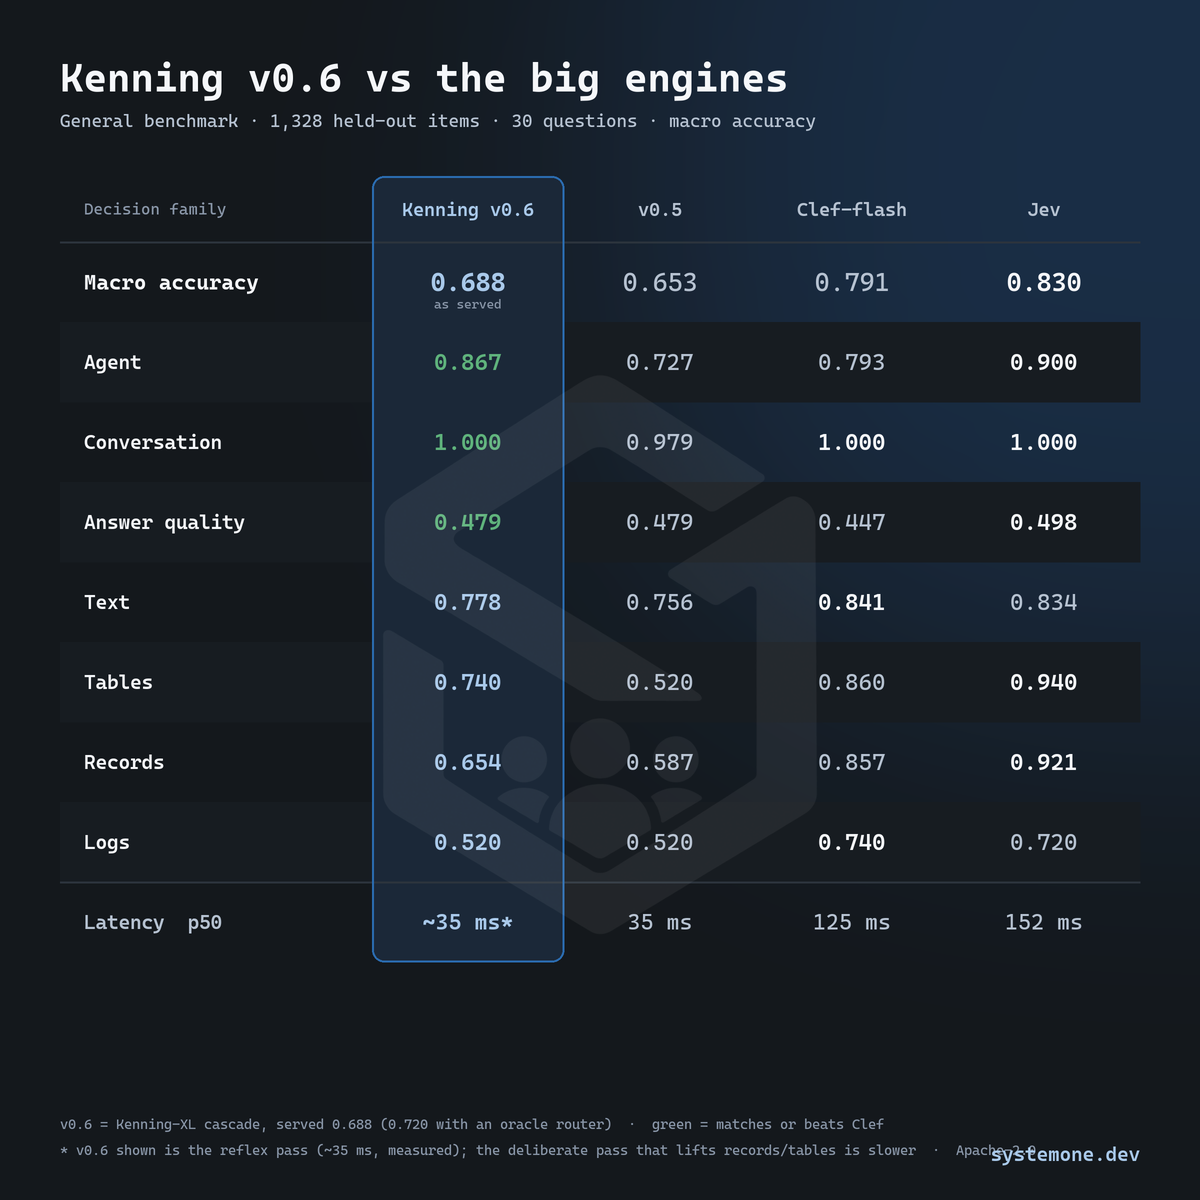
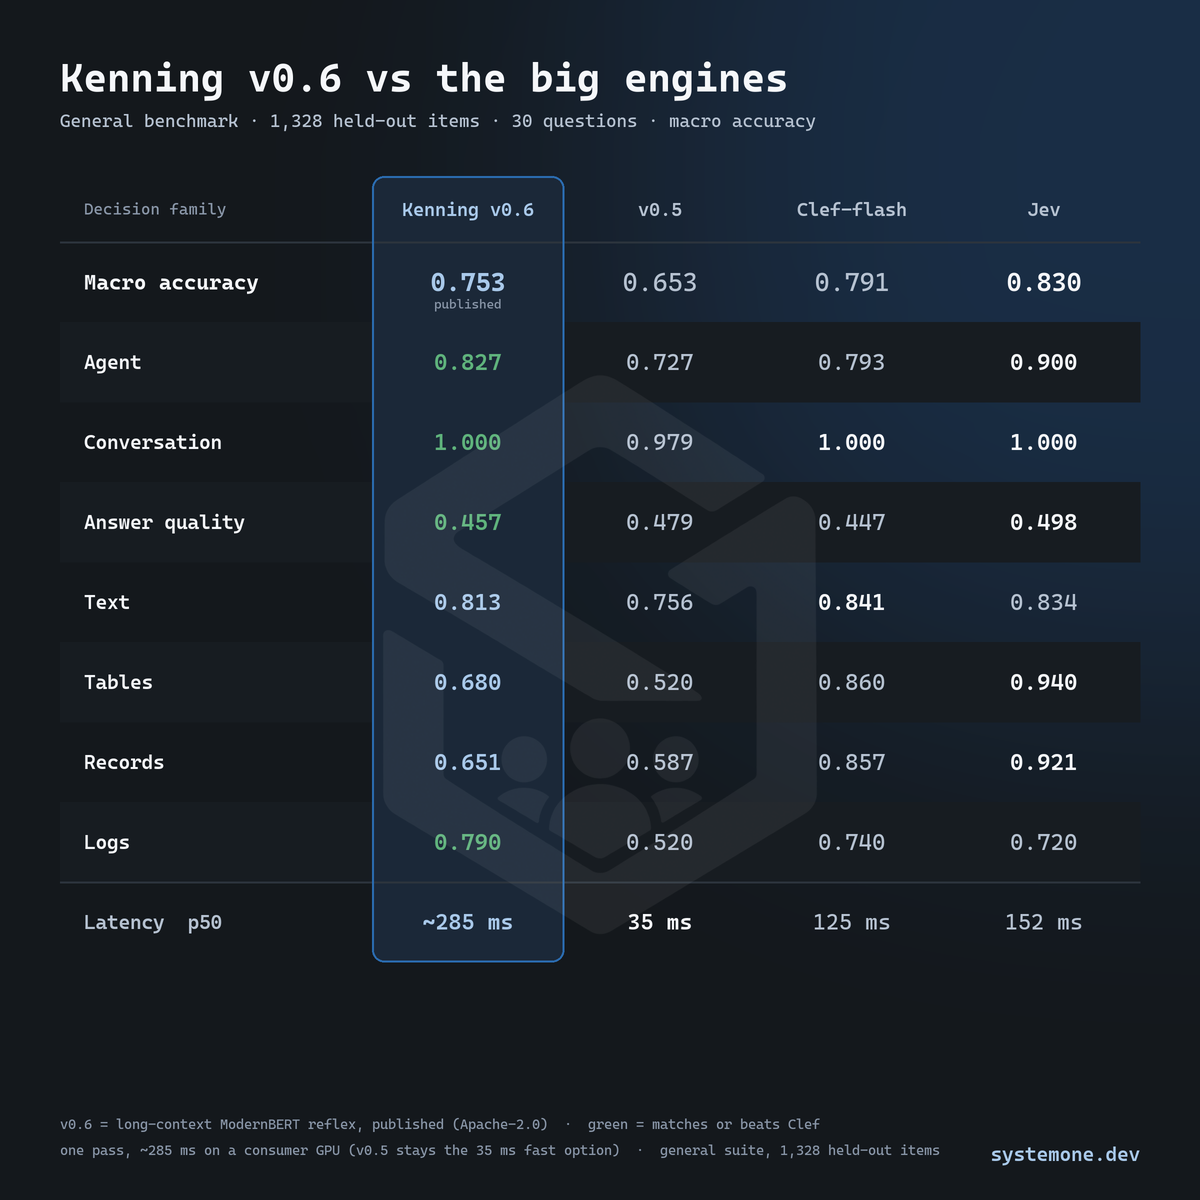
site: v0.6 is the published long-context ModernBERT reflex (0.753)
engines.md headline table + narrative now feature kenning-large-v0.6 (ModernBERT
2048-ctx reflex, macro 0.753, beats Clef on agent/conversation/quality/logs);
Kenning-XL relabeled as the experimental decoder. Benchmark card regenerated
with the v0.6 reflex numbers and honest 285ms latency (v0.5 the fast option).

diff --git a/scripts/make_bench.py b/scripts/make_bench.py
@@ -24,17 +24,17 @@ WATERMARK_OPACITY = 0.06
 
 # label, v0.6, v0.5, clef, jev, kind
 DATA = [
-    ("Macro accuracy", 0.688, 0.653, 0.791, 0.830, "macro"),
-    ("Agent", 0.867, 0.727, 0.793, 0.900, "fam"),
+    ("Macro accuracy", 0.753, 0.653, 0.791, 0.830, "macro"),
+    ("Agent", 0.827, 0.727, 0.793, 0.900, "fam"),
     ("Conversation", 1.000, 0.979, 1.000, 1.000, "fam"),
-    ("Answer quality", 0.479, 0.479, 0.447, 0.498, "fam"),
-    ("Text", 0.778, 0.756, 0.841, 0.834, "fam"),
-    ("Tables", 0.740, 0.520, 0.860, 0.940, "fam"),
-    ("Records", 0.654, 0.587, 0.857, 0.921, "fam"),
-    ("Logs", 0.520, 0.520, 0.740, 0.720, "fam"),
+    ("Answer quality", 0.457, 0.479, 0.447, 0.498, "fam"),
+    ("Text", 0.813, 0.756, 0.841, 0.834, "fam"),
+    ("Tables", 0.680, 0.520, 0.860, 0.940, "fam"),
+    ("Records", 0.651, 0.587, 0.857, 0.921, "fam"),
+    ("Logs", 0.790, 0.520, 0.740, 0.720, "fam"),
     ("Latency  p50", None, None, None, None, "lat"),
 ]
-LAT = ["~35 ms*", "35 ms", "125 ms", "152 ms"]   # v0.6 reflex | v0.5 | clef | jev
+LAT = ["~285 ms", "35 ms", "125 ms", "152 ms"]   # v0.6 reflex (ModernBERT 2048) | v0.5 | clef | jev
 HEADERS = ["Kenning v0.6", "v0.5", "Clef-flash", "Jev"]
 
 
@@ -102,7 +102,7 @@ for k, (label, v6, v5, cl, jv, kind) in enumerate(DATA):
     text(FX + 24, cy, label, f(21 if kind == "macro" else 20, lab_w),
          WHITE if kind != "lat" else GRAY2, anchor="lm")
     if kind == "macro":
-        text(centers[0], cy + 22, "as served", f(13), GRAY3, anchor="mm")
+        text(centers[0], cy + 22, "published", f(13), GRAY3, anchor="mm")
     # cells
     if kind == "lat":
         vals = LAT
@@ -133,10 +133,10 @@ for k, (label, v6, v5, cl, jv, kind) in enumerate(DATA):
 rect(C0, TY, C0 + CW, bottom, outline=ACCENT, width=2, radius=12)
 
 # footer
-text(60, H - 84, "v0.6 = Kenning-XL cascade, served 0.688 (0.720 with an oracle router)  \u00b7  "
+text(60, H - 84, "v0.6 = long-context ModernBERT reflex, published (Apache-2.0)  \u00b7  "
      "green = matches or beats Clef", f(14), GRAY3)
-text(60, H - 58, "* v0.6 shown is the reflex pass (~35 ms, measured); the deliberate pass that lifts "
-     "records/tables is slower  \u00b7  Apache-2.0", f(14), GRAY3)
+text(60, H - 58, "one pass, ~285 ms on a consumer GPU (v0.5 stays the 35 ms fast option)  \u00b7  "
+     "general suite, 1,328 held-out items", f(14), GRAY3)
 text(W - 60, H - 58, "systemone.dev", f(20, "SemiBold"), ACCENT_HIGH, anchor="ra")
 
 # watermark

diff --git a/src/content/docs/start/engines.md b/src/content/docs/start/engines.md
@@ -22,54 +22,49 @@ by changing a URL.
 
 We run every engine through the same suites with `systemone bench` (in
 [SystemOne Builder](https://github.com/systemonedev/systemone-builder)). None of these suites were
-used for training. Benchmarks below are `kenning-large-v0.5`; Clef is `clef-flash`
-and Jev is `jev-latest`, run for comparison only and never trained on. `kenning-large-v0.5` is the published Apache-2.0 download (Hugging Face); its recipe and full results are in the
-[Kenning docs](https://github.com/systemonedev/systemone-builder/blob/main/docs/kenning.md).
+used for training. Benchmarks below are `kenning-large-v0.6`, the current published model, with v0.5 shown
+for comparison. Clef is `clef-flash` and Jev is `jev-latest`, run for comparison only and never trained on.
+Both `kenning-large-v0.6` and `kenning-large-v0.5` are published Apache-2.0 downloads (Hugging Face); recipes
+and full results are in the [Kenning docs](https://github.com/systemonedev/systemone-builder/blob/main/docs/kenning.md).
 
 ### General decisions (the headline)
 
 The `general` suite: 1,328 held-out items, 30 questions in 7 families of state. Accuracy per family, and
 the mean across the families:
 
-| Family | Kenning v0.5 | Clef | Jev |
-|---|---|---|---|
-| **Mean over families** | **0.653** | 0.791 | 0.830 |
-| Text: evidence, sentiment, toxicity, prompt injection, intent, topic | 0.756 | 0.841 | 0.834 |
-| Conversations: which service a dialogue is about | 0.979 | 1.000 | 1.000 |
-| Answer quality: helpful, correct | **0.479** | 0.447 | 0.498 |
-| Agent decisions: right tool call, function call, task completed | 0.727 | 0.793 | 0.900 |
-| Records: refunds, spending limits, access rules over JSON | 0.587 | 0.857 | 0.921 |
-| Tables: is a statement true | 0.520 | 0.860 | 0.940 |
-| Logs: is a service failing, which one | 0.520 | 0.740 | 0.720 |
-| Latency per request (p50) | 35 ms | 125 ms | 152 ms |
-
-Kenning v0.5 already **beats both big engines on answer quality**, and is close on text and conversation,
-at a twentieth of Clef's size and ~4x its speed. It is well behind on the decisions that need computation
-over the state — records, tables, logs — because the 435M cross-encoder scores each option in one short
-pass with nowhere to add numbers or scan a column. That is an architecture limit, and it is what the next
-version changes.
-
-### Experimental: Kenning-XL (v0.6)
-
-Kenning-XL replaces the cross-encoder with a small **decoder** that reasons over the whole state, and adds
-a **deliberate mode** that works through a short reasoning chain before it answers — trained on
-ground-truth chains the builder's rule generators compute for free. Served as a two-tier cascade (the fast
-reflex for what it already wins, the deliberate reasoner for records and tables):
-
-| Family | v0.5 | **v0.6 (cascade)** | Clef | Jev |
+| Family | **Kenning v0.6** | v0.5 | Clef | Jev |
 |---|---|---|---|---|
-| **Mean over families (as served)** | 0.653 | **0.688** | 0.791 | 0.830 |
-| agent | 0.727 | **0.867** | 0.793 | 0.900 |
-| tables | 0.520 | **0.740** | 0.860 | 0.940 |
-| records | 0.587 | **0.654** | 0.857 | 0.921 |
+| **Mean over families** | **0.753** | 0.653 | 0.791 | 0.830 |
+| Text: evidence, sentiment, toxicity, prompt injection, intent, topic | 0.813 | 0.756 | 0.841 | 0.834 |
+| Conversations: which service a dialogue is about | 1.000 | 0.979 | 1.000 | 1.000 |
+| Answer quality: helpful, correct | **0.457** | 0.479 | 0.447 | 0.498 |
+| Agent decisions: right tool call, function call, task completed | **0.827** | 0.727 | 0.793 | 0.900 |
+| Records: refunds, spending limits, access rules over JSON | 0.651 | 0.587 | 0.857 | 0.921 |
+| Tables: is a statement true | 0.680 | 0.520 | 0.860 | 0.940 |
+| Logs: is a service failing, which one | **0.790** | 0.520 | 0.740 | 0.720 |
+| Latency per request (p50) | 285 ms | 35 ms | 125 ms | 152 ms |
 
-v0.6 **narrows the gap to Clef by about half** (0.688 as served; 0.720 with a per-family oracle router),
-beats it on agent decisions and answer quality, and more than doubles the hardest arithmetic task
-(daily-limit checks 0.42 → 0.81) through learned reasoning. The fast reflex pass answers in ~35 ms; the
-deliberate pass that lifts records and tables trades speed for accuracy. It still trails Clef on records,
-tables and logs. The engine, trainer and docs are **merged into
-[`main`](https://github.com/systemonedev/systemone-builder)**; it stays experimental and is not yet a
-published downloadable model. The method and the honest open items are in
+**Kenning v0.6** is a long-context (2,048-token) ModernBERT cross-encoder — a 400M reflex that sees the whole
+state in one pass. It **beats Clef on agent decisions, conversation, answer quality and logs** (logs 0.79,
+ahead of both Clef and Jev), and lifts the macro to **0.753 (from v0.5's 0.653)**, closing most of the gap to
+Clef (0.791) while staying a twentieth of its size. The longer window costs latency — ~285 ms vs v0.5's 35 ms
+— so **v0.5 stays the fast option** and v0.6 the accurate one. Records and tables still trail the big engines:
+those need computation, not just more context, which is what the experimental decoder below explores.
+
+### Experimental: Kenning-XL (decoder)
+
+Kenning-XL is a research line that replaces the cross-encoder with a small **decoder** reasoning over the
+whole state, with a **deliberate mode** — a short gold-trace reasoning chain before it answers, trained on
+chains the builder's rule generators compute for free. It is strong on the computation-heavy families
+through learned reasoning (a 4B decoder reaches records ≈ 0.79, tables ≈ 0.78) and more than doubles the
+hardest arithmetic task (daily-limit checks 0.42 → 0.81).
+
+But the long-context ModernBERT reflex (**v0.6**, above) turned out to be the better overall path: simpler,
+one pass, higher macro (**0.753** vs the decoder's ~0.69 as served), ahead on logs, and far faster to serve.
+So **v0.6 is what's published**, and the decoder continues as research aimed at records and tables. Its
+engine, trainer and docs are **merged into
+[`main`](https://github.com/systemonedev/systemone-builder)**; it is experimental and not a published model.
+The method and the honest open items are in
 [docs/kenning.md](https://github.com/systemonedev/systemone-builder/blob/main/docs/kenning.md) and the
 [design notes](https://github.com/systemonedev/systemone-builder/blob/main/docs/kenning-xl-design.md).
 
